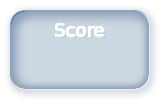
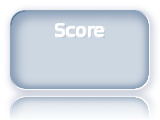
Add reflection to score box

Changed region(s): [[0.0625, 0.63, 0.9688, 0.96], [0.3438, 0.18, 0.6562, 0.39], [0.0625, 0.06, 0.9375, 0.24]]

diff --git a/style.css b/style.css
@@ -70,7 +70,7 @@ body {
 
 #statisctics {
   list-style: none;
-  margin: 20px 0 0;
+  margin: 93px 0 0;
   padding: 0;
   text-align: center;
 }
@@ -91,7 +91,7 @@ body {
 
 #score {
   background: url(images/score.png);
-  height: 55px;
+  height: 75px;
   padding-top: 45px;
   width: 160px;
 }
